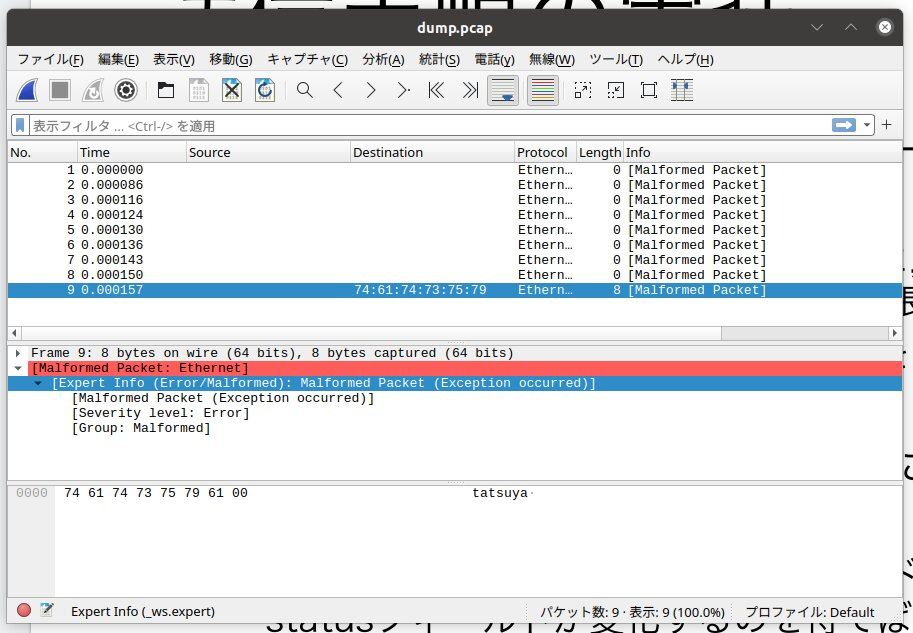
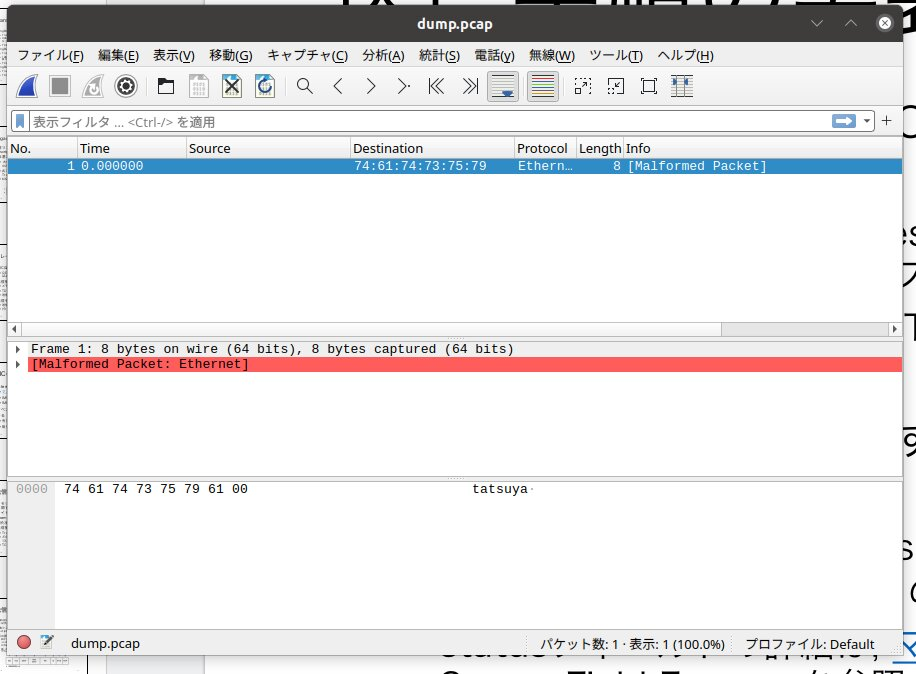
10-B: fixed

Changed region(s): [[0.0, 0.0, 1.0, 1.0]]

diff --git a/kernel/nic.c b/kernel/nic.c
@@ -16,10 +16,10 @@ static unsigned int nic_base_address;
 
 static struct TxDescriptor tx_descriptors[TX_DESCRIPTORS_NUM]__attribute__((aligned(16)));
 
-static unsigned int tx_current_idx;
+// static unsigned int tx_current_idx;
 
 static void set_nic_register(unsigned short offset, unsigned int value) {
-    *(unsigned int *)(nic_base_address + offset) = value;
+    *(unsigned int *)(unsigned long long)(nic_base_address + offset) = value;
 }
 
 static void init_tx() {
@@ -36,7 +36,7 @@ static void init_tx() {
     /* TDH */
     set_nic_register(0x3810, (unsigned int) 0);
     /* TDT */
-    set_nic_register(0x3818, (unsigned int) 1);
+    set_nic_register(0x3818, (unsigned int) 0);
     /* TCTL */
     set_nic_register(0x400, (unsigned int) 0b1010 << 22 | 0x40 << 12 | 0x0f << 4 | 0b1010);
 }
@@ -45,18 +45,18 @@ void init_nic(unsigned int nic_address) {
     nic_base_address = nic_address;
 
     /* IMC */
-    set_nic_register(0x00d8, 0xffffffff);
+    set_nic_register(0x00d8, 0x0000ffff);
 
     init_tx();
 }
 
 unsigned char send_frame(void *buffer, unsigned short len) {
-    for (unsigned int i=0; i<len; i++) {
+    for (unsigned int i=0; i<1; i++) {
         tx_descriptors[(0+i)%TX_DESCRIPTORS_NUM].buf_addr = (unsigned long long) buffer + i;
         /* length */
-        tx_descriptors[(0+i)%TX_DESCRIPTORS_NUM].legacy = tx_descriptors[(0+i)%TX_DESCRIPTORS_NUM].legacy | 0x8;
+        tx_descriptors[(0+i)%TX_DESCRIPTORS_NUM].legacy = tx_descriptors[(1+i)%TX_DESCRIPTORS_NUM].legacy | len;
         /* TDT */
-        set_nic_register(0x3818, (unsigned int) (2+i)%TX_DESCRIPTORS_NUM);
+        set_nic_register(0x3818, (unsigned int) (1+i)%TX_DESCRIPTORS_NUM);
 
         while (((tx_descriptors[(0+i)%TX_DESCRIPTORS_NUM].legacy >> 32) & 0b1) == 0);
     }
